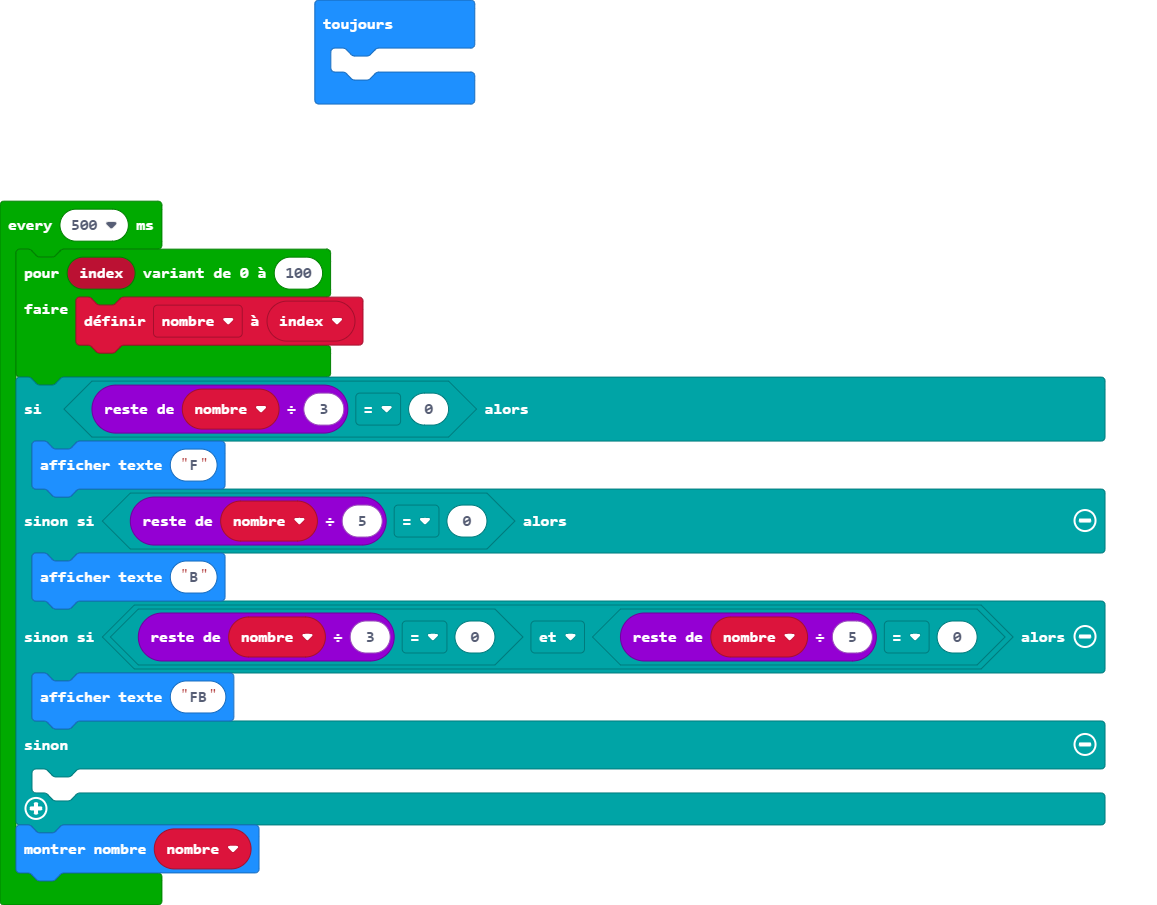
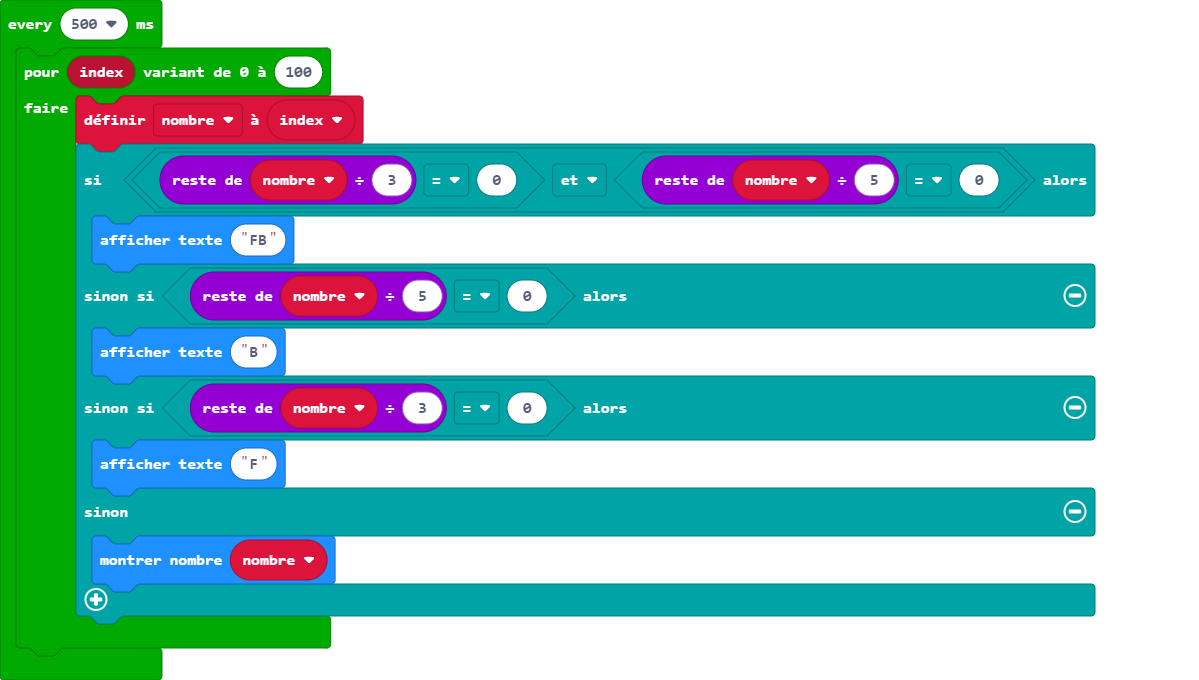
Mise à jour main.blocks, main.ts

diff --git a/main.ts b/main.ts
@@ -2,18 +2,14 @@ let nombre = 0
 loops.everyInterval(500, function () {
     for (let index = 0; index <= 100; index++) {
         nombre = index
+        if (nombre % 3 == 0 && nombre % 5 == 0) {
+            basic.showString("FB")
+        } else if (nombre % 5 == 0) {
+            basic.showString("B")
+        } else if (nombre % 3 == 0) {
+            basic.showString("F")
+        } else {
+            basic.showNumber(nombre)
+        }
     }
-    if (nombre % 3 == 0) {
-        basic.showString("F")
-    } else if (nombre % 5 == 0) {
-        basic.showString("B")
-    } else if (nombre % 3 == 0 && nombre % 5 == 0) {
-        basic.showString("FB")
-    } else {
-    	
-    }
-    basic.showNumber(nombre)
-})
-basic.forever(function () {
-	
 })
